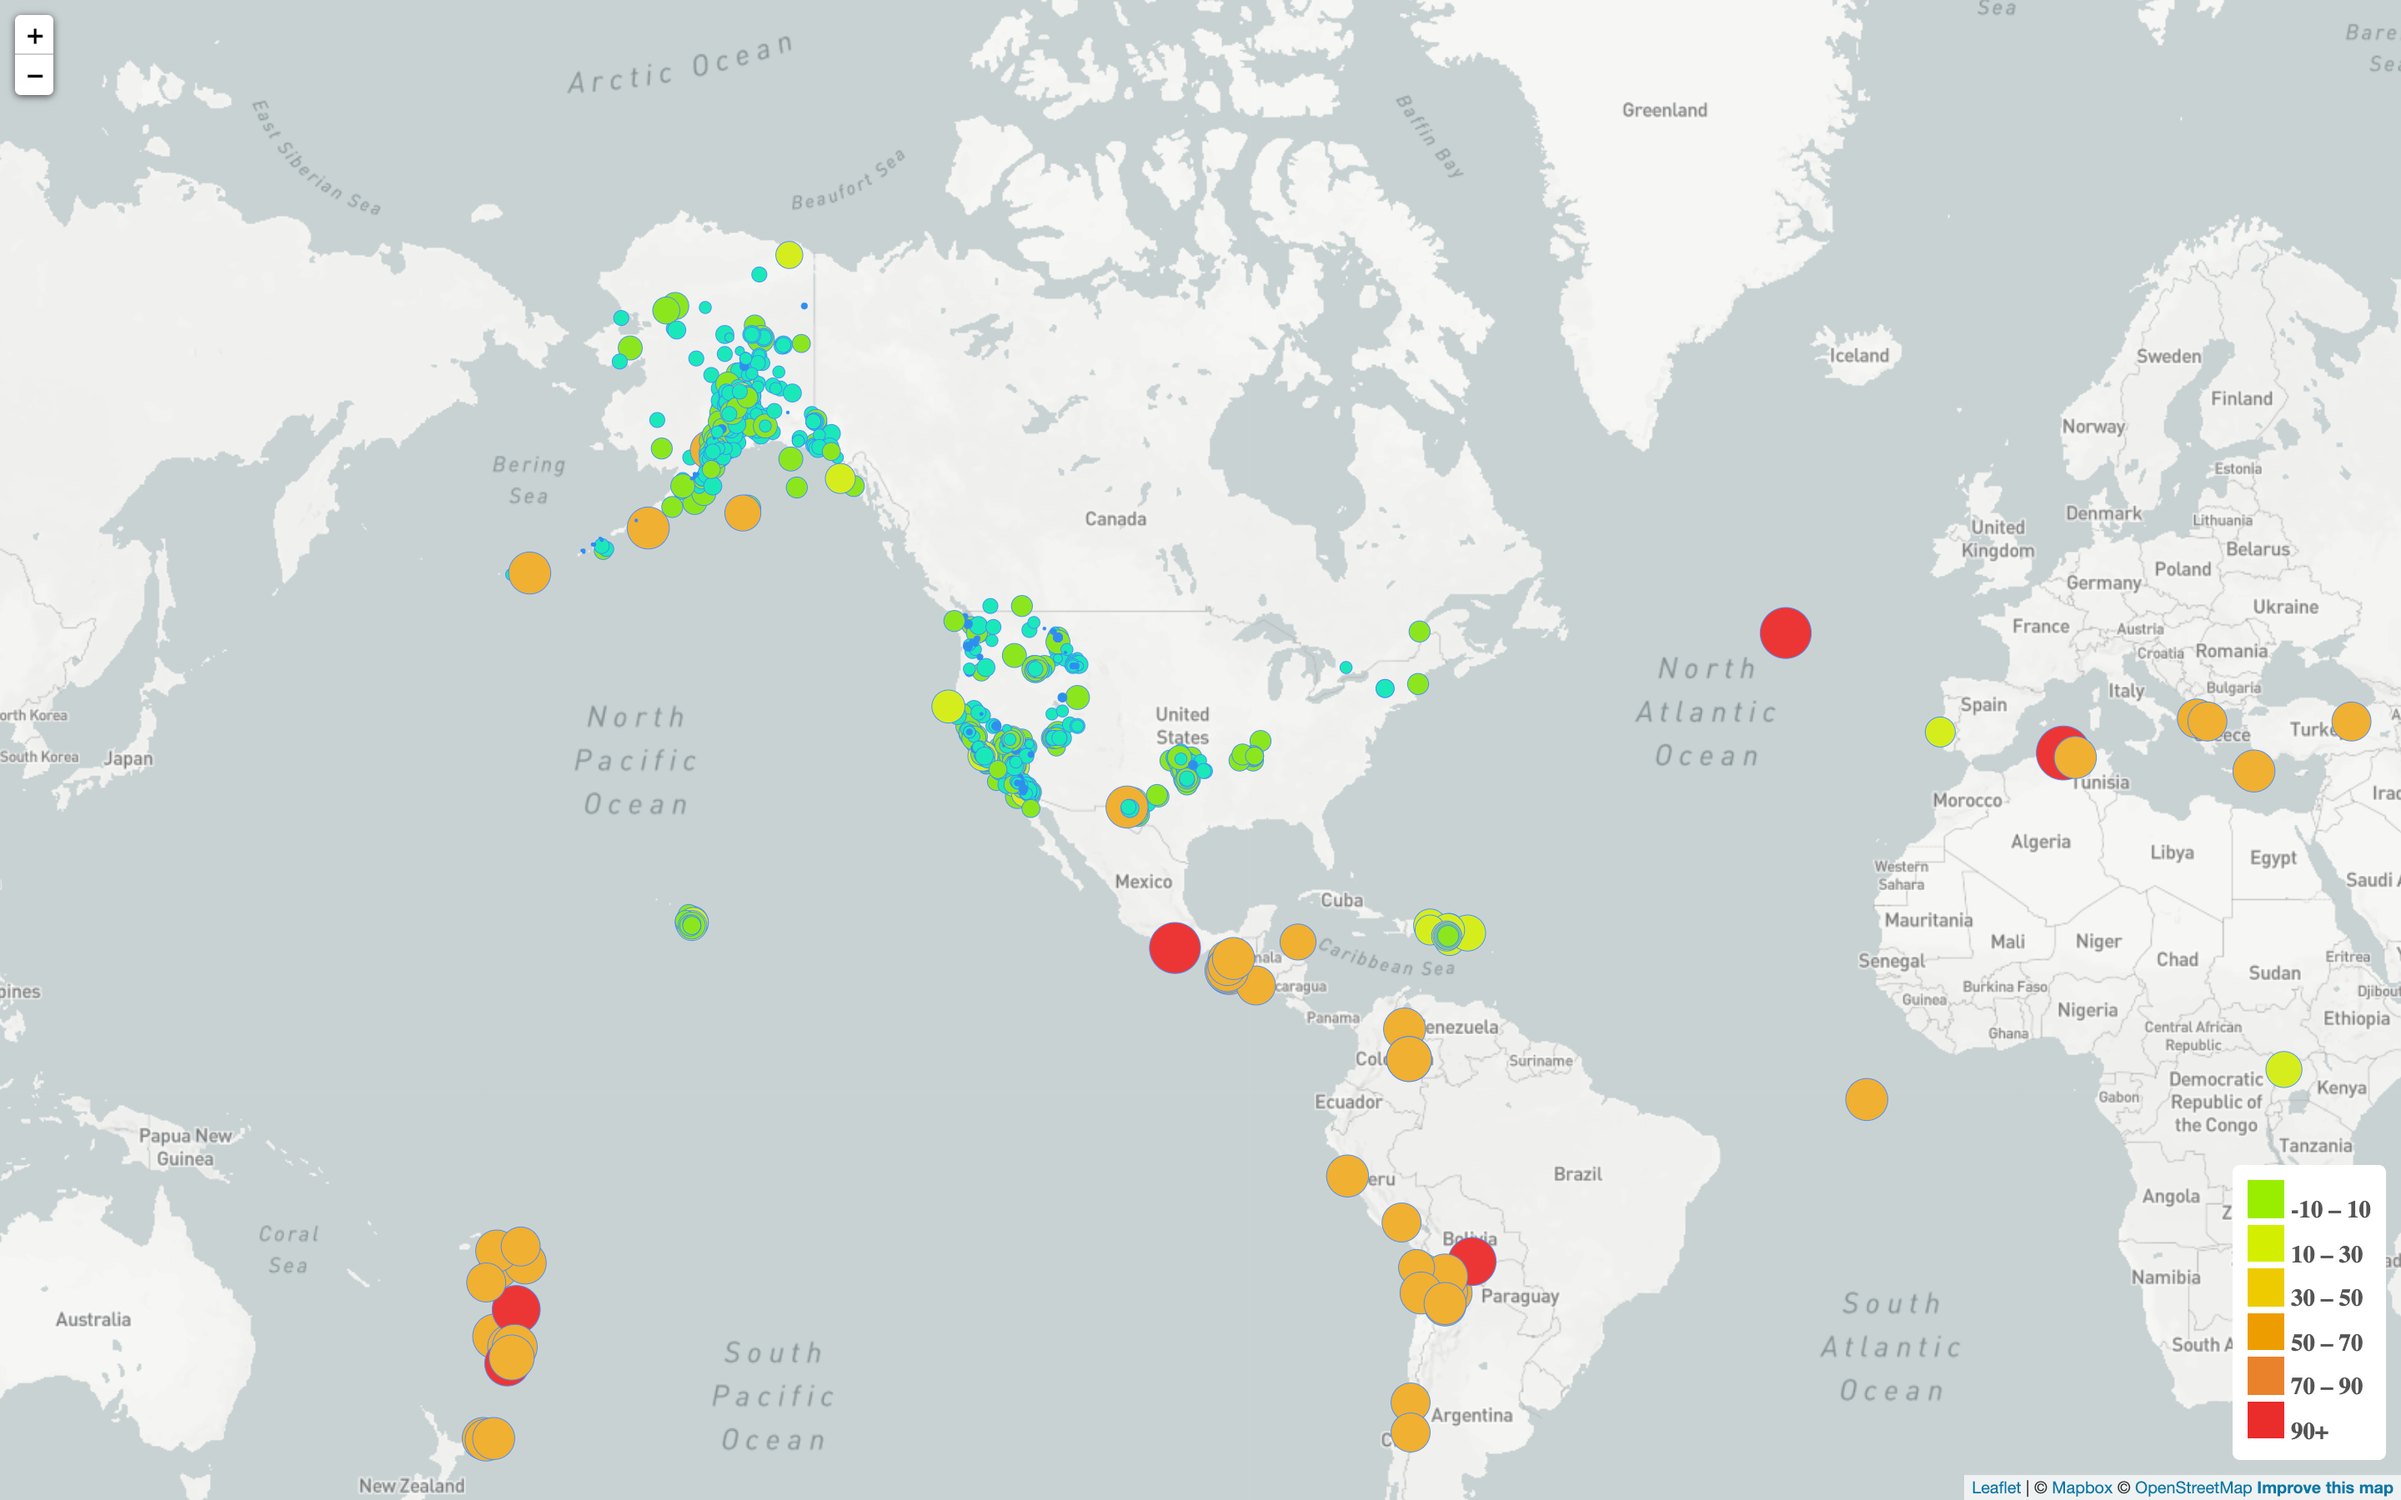
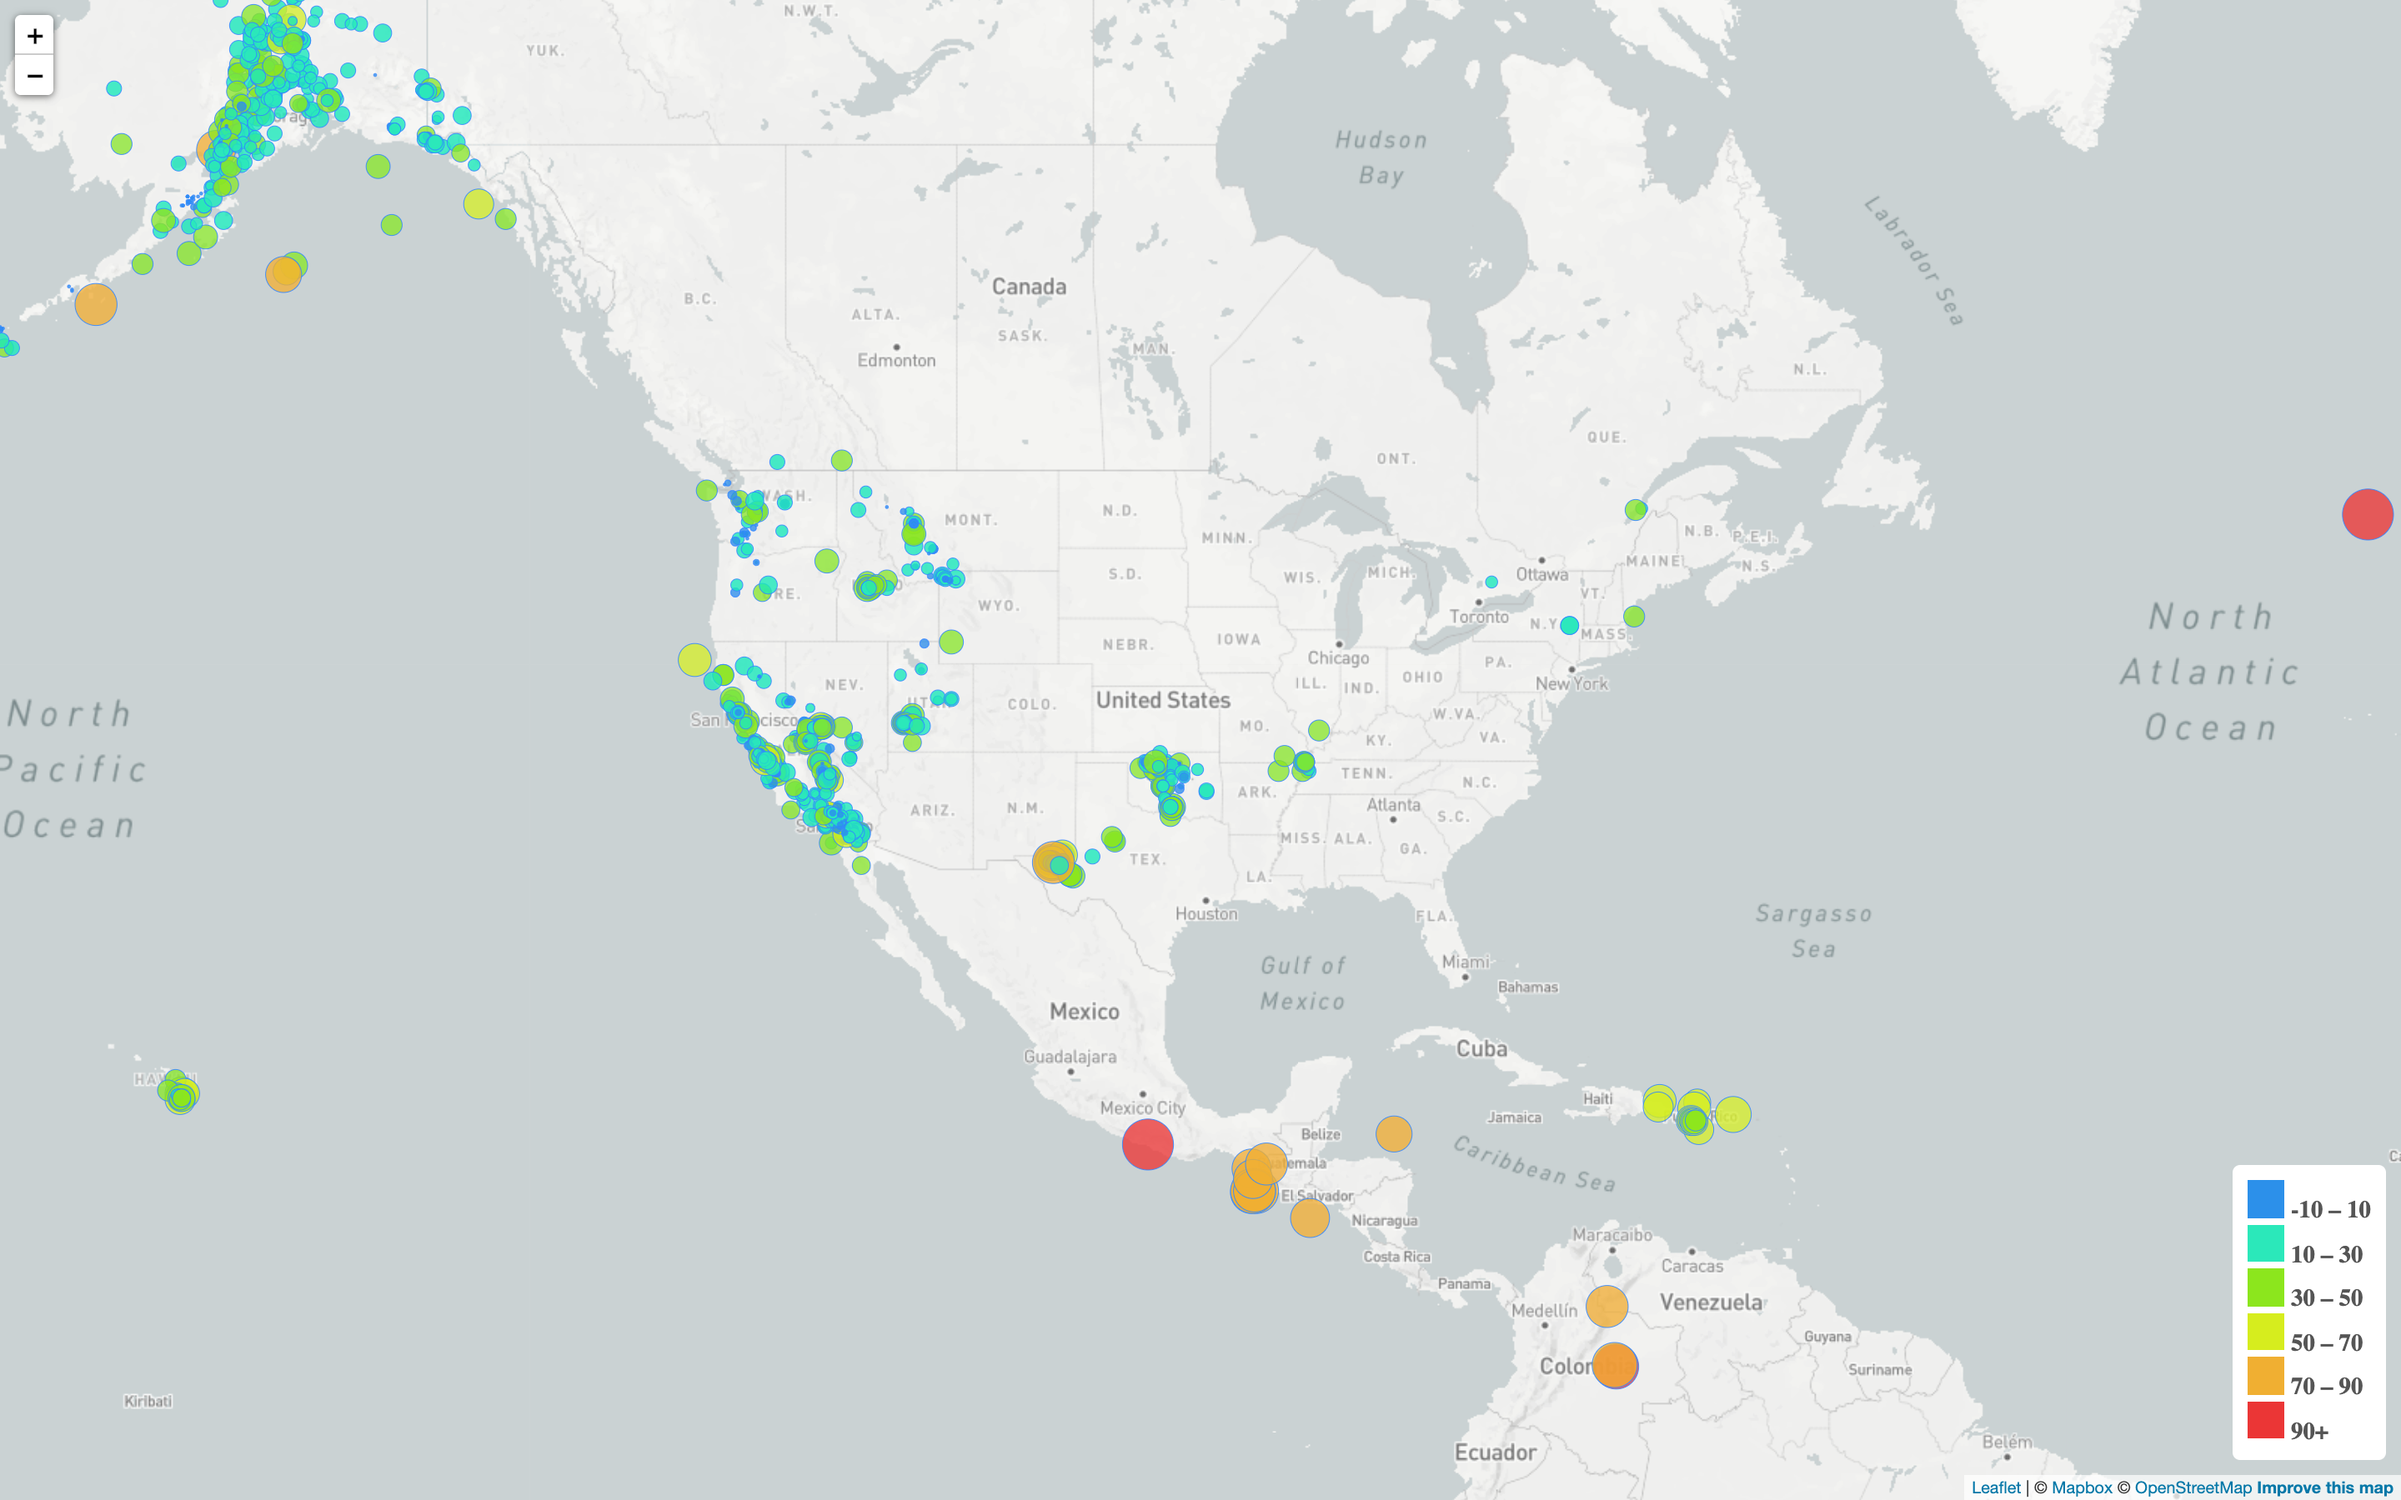
add legendColor and legend inside of d3.json

diff --git a/Leaflet-Step-2/static/js/logic.js b/Leaflet-Step-2/static/js/logic.js
@@ -1,116 +1,140 @@
-// Store API link
-let url = "https://earthquake.usgs.gov/earthquakes/feed/v1.0/summary/all_week.geojson"
-
-function markerSize(mag) {
-    return mag * 35000;
-}
-
-function markerColor(mag) {
-    if (mag <= 1) {
-        return "#f7f711";
-    } else if (mag <= 2) {
-        return "#a7f21b";
-    } else if (mag <= 3) {
-        return "#85cbe6";
-    } else if (mag <= 4) {
-        return "#ad85e6";
-    } else if (mag <= 5) {
-        return "#e864bc";
-    } else {
-        return "#ff2f55";
-    };
-}
-
-// Perform a GET request to the query URL
-d3.json(url, function (data) {
-    // Once we get a response, send the data.features object to the createFeatures function
-    createFeatures(data.features);
+// Define worldMap tile layer
+//-----------------------------
+let worldMap = L.tileLayer("https://api.mapbox.com/styles/v1/{id}/tiles/{z}/{x}/{y}?access_token={accessToken}", {
+    attribution: "© <a href='https://www.mapbox.com/about/maps/'>Mapbox</a> © <a href='http://www.openstreetmap.org/copyright'>OpenStreetMap</a> <strong><a href='https://www.mapbox.com/map-feedback/' target='_blank'>Improve this map</a></strong>",
+    tileSize: 512,
+    maxZoom: 18,
+    zoomOffset: -1,
+    id: "mapbox/light-v9",
+    accessToken: API_KEY
 });
 
-function createFeatures(earthquakeData) {
+// Define the myMap with center coords and zoom
+//-----------------------------
+let myMap = L.map("mapid", {
+    center: [
+        37.10, -95.72
+    ],
+    zoom: 4,
 
-    var earthquakes = L.geoJSON(earthquakeData, {
-        // Define a function we want to run once for each feature in the features array
-        // Give each feature a popup describing the place and time of the earthquake
-        onEachFeature: function (feature, layer) {
+});
 
-            layer.bindPopup("<h3>" + feature.properties.place +
-                "</h3><hr><p>" + new Date(feature.properties.time) + "</p>" + "<p> Magnitude: " + feature.properties.mag + "</p>")
-        }, pointToLayer: function (feature, latlng) {
-            return new L.circle(latlng,
-                {
-                    radius: markerSize(feature.properties.mag),
-                    fillColor: markerColor(feature.properties.mag),
-                    fillOpacity: 1,
-                    stroke: false,
-                })
+worldMap.addTo(myMap);
+
+// Define url to grab json data
+//-----------------------------
+let url = "https://earthquake.usgs.gov/earthquakes/feed/v1.0/summary/all_week.geojson";
+
+
+
+// Read the json using D3
+//-----------------------------
+d3.json(url, function (geojson) {
+    console.log(geojson);
+
+    // add style to my earthquake features
+    function earthQuakeStyle(feature) {
+        return {
+            opacity: 1,
+            fillOpacity: .8,
+            fillColor: earthQuakeColor(feature.properties.mag),
+            radius: earthQuakeRadius(feature.properties.mag),
+            stroke: true,
+            weight: 0.5
+            
+        };
+
+    }
+    // add color to earthquake using switch conditionals
+    //-----------------------------
+    function earthQuakeColor(mag) {
+        switch (true) {
+            case mag > 5:
+                return "#eb3636";
+            case mag > 4:
+                return "#f0af32";
+            case mag > 3:
+                return "#d6ed1f";
+            case mag > 2:
+                return "#8ce61e";
+            case mag > 1:
+                return "#1ee8ba";
+            default:
+                return "#2c90ea";
         }
-    });
 
 
 
-    // Sending our earthquakes layer to the createMap function
-    createMap(earthquakes);
-}
+    }
 
-function createMap(earthquakes) {
+    // Function for controling legend color
+    function legendColor(mag) {
+        switch (true) {
+            case mag > 100:
+                return "#eb3636";
+            case mag > 70:
+                return "#f0af32";
+            case mag > 50:
+                return "#d6ed1f";
+            case mag > 30:
+                return "#8ce61e";
+            case mag > 10:
+                return "#1ee8ba";
+            default:
+                return "#2c90ea";
+        }
+    }
 
-    // Define satelitemap and darkmap layers
-    var satelitemap = L.tileLayer("https://api.tiles.mapbox.com/v4/{id}/{z}/{x}/{y}.png?access_token={accessToken}", {
-        attribution: "Map data &copy; <a href=\"https://www.openstreetmap.org/\">OpenStreetMap</a> contributors, <a href=\"https://creativecommons.org/licenses/by-sa/2.0/\">CC-BY-SA</a>, Imagery © <a href=\"https://www.mapbox.com/\">Mapbox</a>",
-        maxZoom: 18,
-        id: "mapbox.satellite",
-        accessToken: API_KEY
-    });
-
-    var darkmap = L.tileLayer("https://api.tiles.mapbox.com/v4/{id}/{z}/{x}/{y}.png?access_token={accessToken}", {
-        attribution: "Map data &copy; <a href=\"https://www.openstreetmap.org/\">OpenStreetMap</a> contributors, <a href=\"https://creativecommons.org/licenses/by-sa/2.0/\">CC-BY-SA</a>, Imagery © <a href=\"https://www.mapbox.com/\">Mapbox</a>",
-        maxZoom: 18,
-        id: "mapbox.dark",
-        accessToken: API_KEY
-    });
-
-    // Define a baseMaps object to hold our base layers
-    var baseMaps = {
-        "Satelite Map": satelitemap,
-        "Dark Map": darkmap
-    };
-
-    // Create overlay object to hold our overlay layer
-    var overlayMaps = {
-        Earthquakes: earthquakes
-    };
-
-    // Create our map, giving it the satelitemap and earthquakes layers to display on load
-    var myMap = L.map("mapid", {
-        center: [31.57853542647338, -99.580078125],
-        zoom: 3,
-        layers: [satelitemap, earthquakes]
-    });
-
-    // Create a layer control
-    // Pass in our baseMaps and overlayMaps
-    // Add the layer control to the map
-    L.control.layers(baseMaps, overlayMaps, {
-        collapsed: false
-    }).addTo(myMap);
-
-    var legend = L.control({ position: 'bottomright' });
-
+    // Adding legend to the map
+    //-----------------------------
+    let legend = L.control({position: 'bottomright'});
+    
     legend.onAdd = function () {
-
-        var div = L.DomUtil.create('div', 'info legend'),
-            magnitudes = [0, 1, 2, 3, 4, 5];
-
-        for (var i = 0; i < magnitudes.length; i++) {
+        // div element for legend
+        let div = L.DomUtil.create('div', 'info legend');
+        // legend numbers
+        let grades = [-10, 10, 30, 50, 70, 90];  
+        // loop through our density intervals and generate a label with a colored square for each interval
+        for (let i = 0; i < grades.length; i++) {
             div.innerHTML +=
-                '<i style="background:' + markerColor(magnitudes[i] + 1) + '"></i> ' +
-                + magnitudes[i] + (magnitudes[i + 1] ? ' - ' + magnitudes[i + 1] + '<br>' : ' + ');
+                '<div style="background: ' + legendColor(grades[i] + 20) + ";" + "width: 25px; height: 25px; display: inline-block;"  +' " ></div> '  +
+                grades[i] + (grades[i + 1] ? " " + '&ndash;' +" " + grades[i + 1] + '<br>' : '+');
         }
 
         return div;
     };
 
     legend.addTo(myMap);
+    // add radius size determined by magnitude of earthquake
+    //-----------------------------
+    function earthQuakeRadius(mag) {
+        if (mag === 0) {
+            return 1;
+        }
 
-}
+        return mag * 3;
+
+    }
+
+    // Grab the data with D3
+    //-----------------------------
+    L.geoJSON(geojson, {
+        pointToLayer: function (feature, latlng) {
+            return L.circleMarker(latlng);
+        },
+        style: earthQuakeStyle,
+        onEachFeature: function (feature, layer) {
+            layer.bindPopup("Magnitude: " + feature.properties.mag + "<br>Location: " + feature.properties.place);
+
+        }
+        
+    }).addTo(myMap);
+
+
+
+
+
+
+
+
+});

diff --git a/Leaflet-Step-1/static/js/logic.js b/Leaflet-Step-1/static/js/logic.js
@@ -64,8 +64,47 @@ d3.json(url, function (geojson) {
         }
 
 
+
     }
 
+    // Function for controling legend color
+    function legendColor(mag) {
+        switch (true) {
+            case mag > 100:
+                return "#eb3636";
+            case mag > 70:
+                return "#f0af32";
+            case mag > 50:
+                return "#d6ed1f";
+            case mag > 30:
+                return "#8ce61e";
+            case mag > 10:
+                return "#1ee8ba";
+            default:
+                return "#2c90ea";
+        }
+    }
+
+    // Adding legend to the map
+    //-----------------------------
+    let legend = L.control({position: 'bottomright'});
+    
+    legend.onAdd = function () {
+        // div element for legend
+        let div = L.DomUtil.create('div', 'info legend');
+        // legend numbers
+        let grades = [-10, 10, 30, 50, 70, 90];  
+        // loop through our density intervals and generate a label with a colored square for each interval
+        for (let i = 0; i < grades.length; i++) {
+            div.innerHTML +=
+                '<div style="background: ' + legendColor(grades[i] + 20) + ";" + "width: 25px; height: 25px; display: inline-block;"  +' " ></div> '  +
+                grades[i] + (grades[i + 1] ? " " + '&ndash;' +" " + grades[i + 1] + '<br>' : '+');
+        }
+
+        return div;
+    };
+
+    legend.addTo(myMap);
     // add radius size determined by magnitude of earthquake
     //-----------------------------
     function earthQuakeRadius(mag) {
@@ -88,35 +127,8 @@ d3.json(url, function (geojson) {
             layer.bindPopup("Magnitude: " + feature.properties.mag + "<br>Location: " + feature.properties.place);
 
         }
-
-
-
+        
     }).addTo(myMap);
-
-
-    var legend = L.control({position: 'bottomright'});
-
-    // Adding legend to the map
-    //-----------------------------
-    var legend = L.control({position: 'bottomright'});
-
-    legend.onAdd = function () {
-
-        let div = L.DomUtil.create('div', 'info legend');
-        let grades = [-10, 10, 30, 50, 70, 90];  
-        let colors = ["#2c90ea","#1ee8ba","#8ce61e","#d6ed1f","#f0af32","#eb3636"];
-
-        // loop through our density intervals and generate a label with a colored square for each interval
-        for (let i = 0; i < grades.length; i++) {
-            div.innerHTML +=
-                '<div style="background: ' + colors[i]+ ";" + "width: 25px; height: 25px; display: inline-block;"  +' " ></div> '  +
-                grades[i] + (grades[i + 1] ? " " + '&ndash;' +" " + grades[i + 1] + '<br>' : '+');
-        }
-
-        return div;
-    };
-
-    legend.addTo(myMap);
 
 
 

diff --git a/Leaflet-Step-2/static/css/style.css b/Leaflet-Step-2/static/css/style.css
@@ -3,8 +3,31 @@ body {
   margin: 0;
 }
 
-#map,
+#mapid,
 body,
 html {
   height: 100%;
 }
+
+.legend {
+  padding: 10px;
+  font-family: Sanchez, serif;
+  font-size: 16px;
+  font-weight: bold;
+  line-height: 18px;
+  color: #555;
+  background-color:#fff;
+  border-radius: 5px;
+  
+}
+
+.legend  {
+  width: 18px;
+  height: 15px;
+  float: left;
+  margin-right: 8px;
+  opacity: 0.7;
+}
+
+.leaflet-bottom.leaflet-left {  width: 90%;}
+.leaflet-control-container .leaflet-timeline-controls {  width: 100%;  box-sizing: border-box;  margin: 0;  margin-bottom: 15px;}
